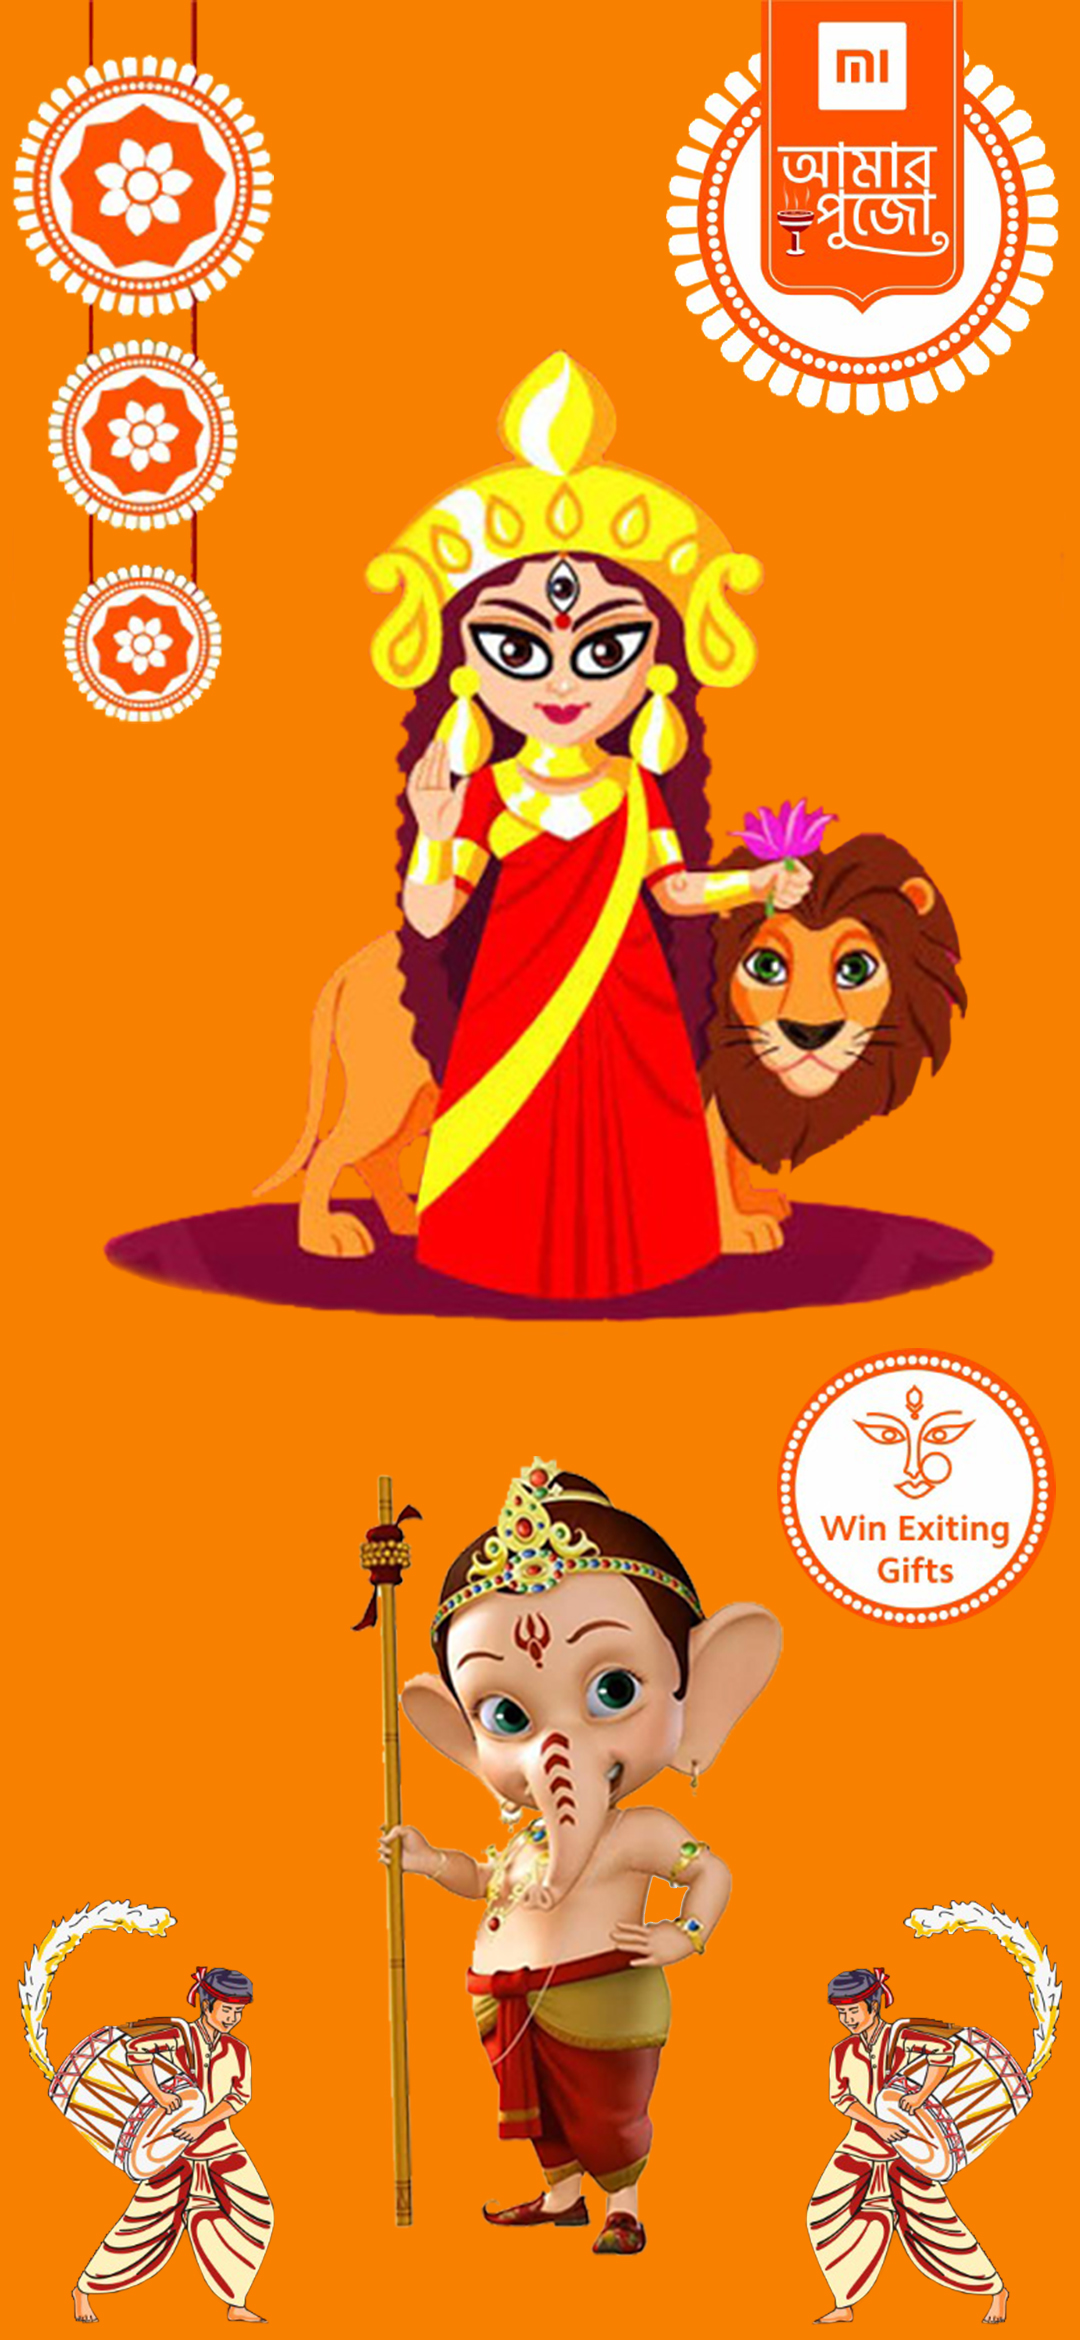
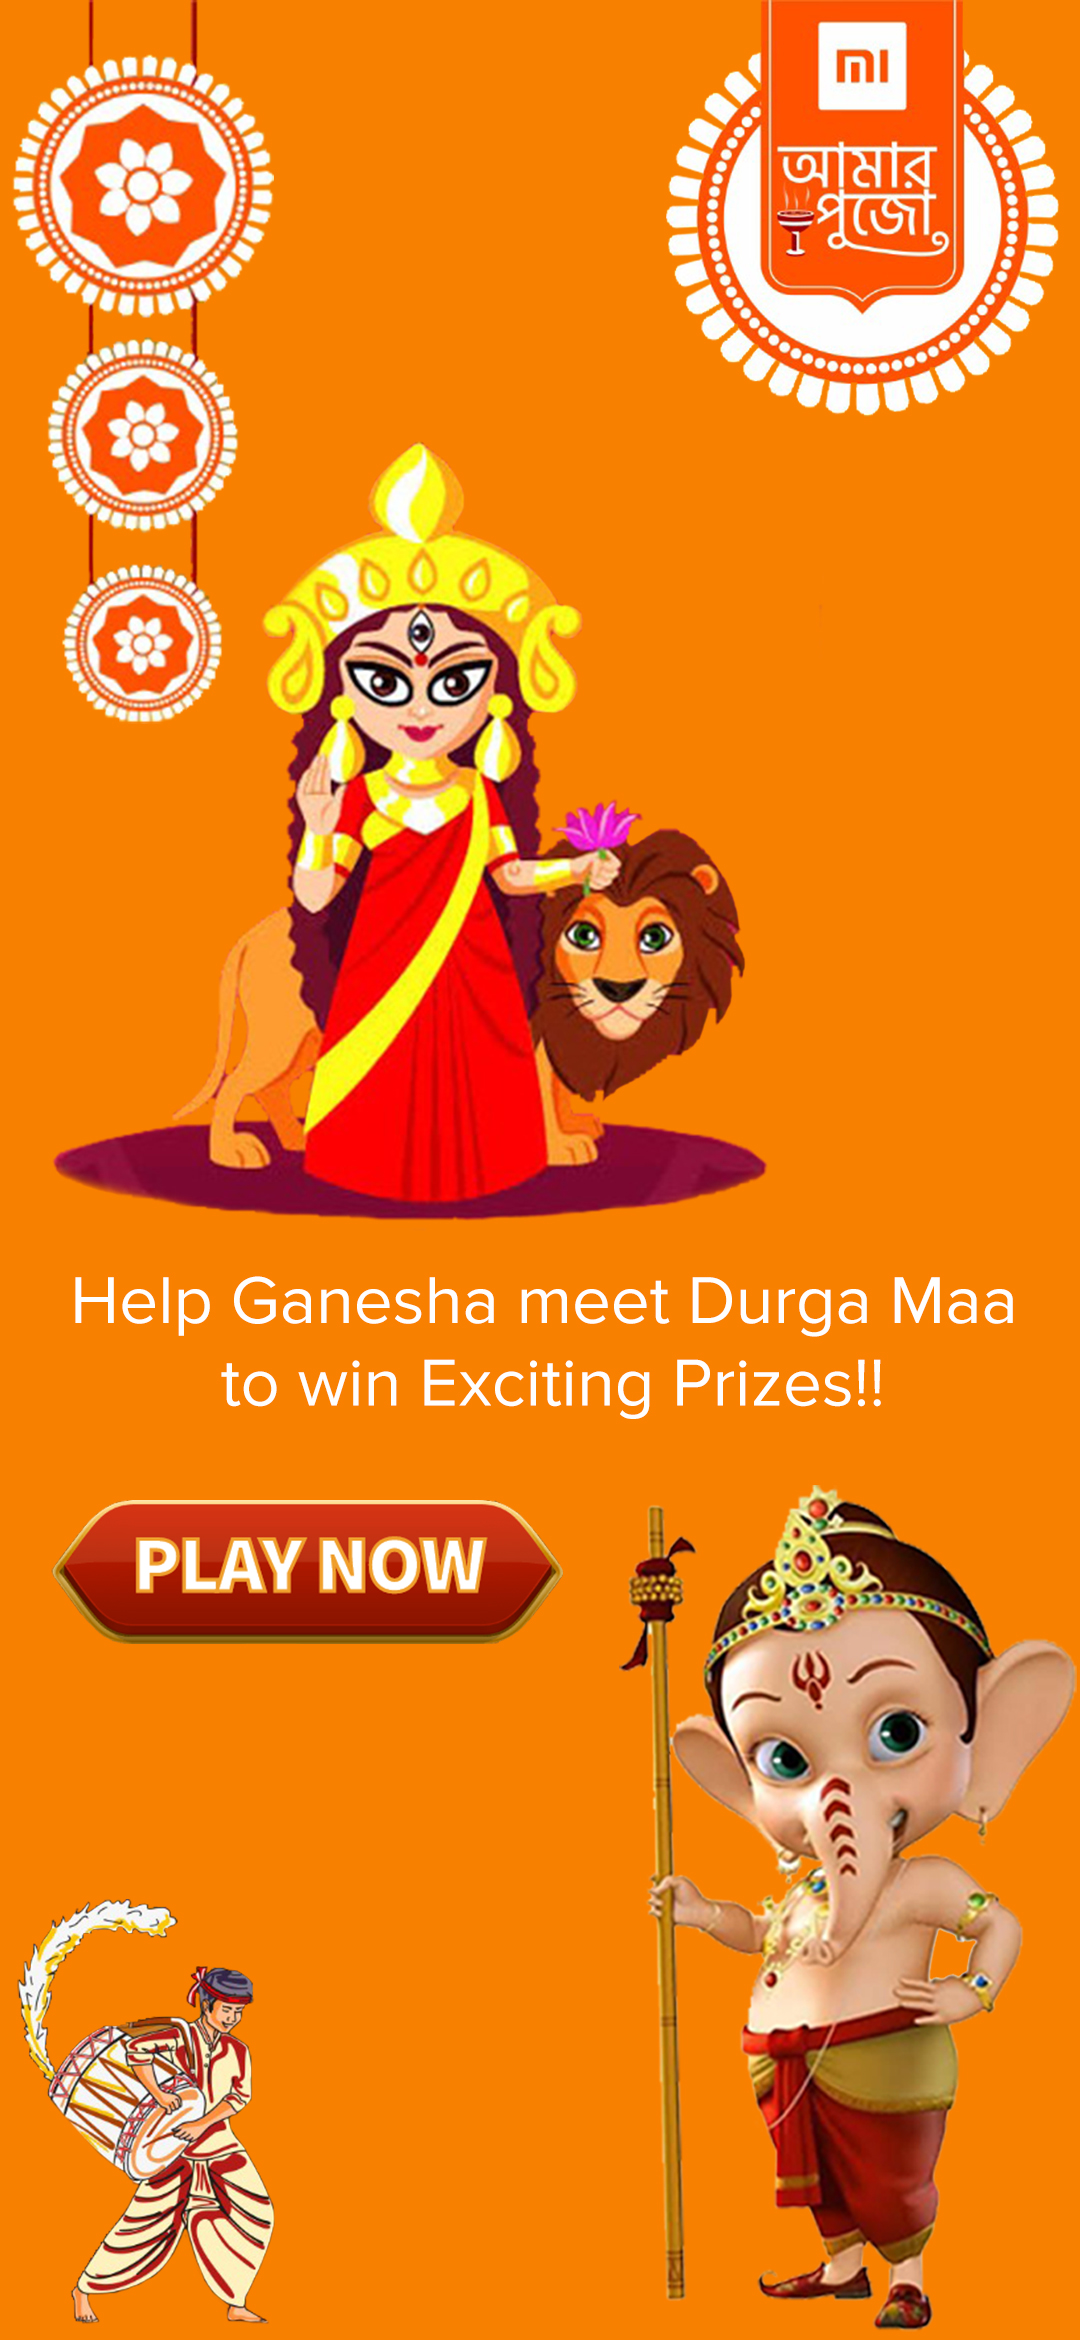
Styling changes

diff --git a/game.html b/game.html
@@ -13,7 +13,7 @@
         <input type="text" name="result" id="result" value="0" >
         <div id="found"></div>
     </div>
-    <main>
+    <main class="background-main">
         <div class="header" id="landing">
             <div class="landing-image">
                 <img id="logo" src="images/logo.png" alt="Xiaomi" class="icon-image">
@@ -36,14 +36,10 @@
             <div class="game">
                 <div class="product-tile" id="tile1">
                     <img id="prod1" src="" alt="" class="product-image-laptop" onclick="onProductClick(0,'prod1')" >
-                    <!--<video id="video1" src="images/laptop.mp4" class="product-image-tv" autoplay muted playsinline onclick="video2clicked('video1')">
-                    </video>-->
                     
                 </div>   
                 <div class="product-tile" id="tile2">
                     <img id="prod2" src="" alt="" class="product-image" onclick="onProductClick(1,'prod2')" >
-                    <!--<video id="video2" src="images/laptop.mp4" class="product-image-tv" autoplay muted playsinline onclick="video2clicked('video2')">
-                    </video>-->
                 </div>  
             </div>
             <div class="game">
@@ -71,84 +67,8 @@
                 </div>  
             </div>
 
-          <!-- <  <div class="filter">
-                <div class="filter-image">
-                    <img src="images/pookalam.png" alt="Pookalam" class="filter-image-pookalam">
-                </div>
-                <div class="filter-title">
-                    <h2>POOKALAM</h2>
-                </div>
-                <div class="filter-link">
-                   <a href="https://www.facebook.com/fbcameraeffects/testit/586220345391640/N2Q4ZGVlOWJiYzMwZWQ0ODRiNzk3NzhhZTJmMzc4NDU=/"><img src="images/facebook.png" alt="Open on Facebook" class="link-image"></a>
-                </div>
-                <div class="filter-link">
-                    <a href="https://www.instagram.com/ar/329511564910526/"><img src="images/insta.png" alt="Open on Instagram" class="link-image"></a>
-                </div>
-            </div>
-            <div class="filter">
-                <div class="filter-image">
-                    <img src="images/tiger.png" alt="Pulikali" class="filter-image-tiger">
-                </div>
-                <div class="filter-title">
-                    <h2>PULIKALI</h2>
-                </div>
-                <div class="filter-link">
-                    <a href="https://www.facebook.com/fbcameraeffects/testit/344062623289730/YjVkYjExYzA5ODU1NmIyM2MxNTBjZDM5ZDRlNTBiM2Y=/"><img src="images/facebook.png" alt="Open on Facebook" class="link-image"></a>
-                </div>
-                <div class="filter-link">
-                    <a href="https://www.instagram.com/ar/295632325077702/"><img src="images/insta.png" alt="Open on Instagram" class="link-image"></a>
-                </div>
-            </div>
-            <div class="filter">
-                <div class="filter-image">
-                    <img src="images/kathakali.png" alt="Kaikottikali" class="filter-image-kathakali">
-                </div>
-                <div class="filter-title">
-                    <h2>KAIKOTTIKALI</h2>
-                </div>
-                <div class="filter-link">
-                    <a href="https://www.facebook.com/fbcameraeffects/tryit/294790991826286/"><img src="images/facebook.png" alt="Open on Facebook" class="link-image"></a>
-                </div>
-                <div class="filter-link">
-                    <a href="https://www.instagram.com/ar/305003167419698/"><img src="images/insta.png" alt="Open on Instagram" class="link-image"></a>
-                </div>
-            </div>
-            <div class="filter">
-                <div class="filter-image">
-                    <img src="images/KathakHead.png" alt="KathakHead" class="filter-image-khead">
-                </div>
-                <div class="filter-title">
-                    <h2>KATHAK FACE</h2>
-                </div>
-                <div class="filter-link">
-                    <a href="https://www.facebook.com/fbcameraeffects/testit/306427434110392/ZjYxYjQ1Y2JhZDk4OWE3Y2MzNWFlNmE3MmI1ODkzNjQ=/"><img src="images/facebook.png" alt="Open on Facebook" class="link-image"></a>
-                </div>
-                <div class="filter-link">
-                    <a href="https://www.instagram.com/ar/995435177553426/?ch=MDE0MDU0MzkzMWI2ZTY1YTBjYzE2MWRlNjA3YWIzNjQ%3D"><img src="images/insta.png" alt="Open on Instagram" class="link-image"></a>
-                </div>
-            </div>
-            <div class="filter">
-                <div class="filter-image">
-                    <img src="images/mahabali_cutout.png" alt="Mahabali Asur" class="filter-image-asur">
-                </div>
-                <div class="filter-title">
-                    <h2>MAHABALI ASUR</h2>
-                </div>
-                <div class="filter-link">
-                    <a href="https://www.facebook.com/fbcameraeffects/tryit/1467773373430482/"><img src="images/facebook.png" alt="Open on Facebook" class="link-image"></a>
-                </div>
-                <div class="filter-link">
-                    <a href="https://www.instagram.com/ar/218779242890430/"><img src="images/insta.png" alt="Open on Instagram" class="link-image"></a>
-                </div>
-            </div>  >    -->
+         
         </div>
-        <!-- <div class="footer">
-            <div class="wishes">
-               <h1>
-                Xiaomi Wishes Everyone A Happy Onam!!!
-               </h1>
-            </div>
-        </div> -->
        
     </main>
 </body>

diff --git a/css/style.css b/css/style.css
@@ -39,7 +39,7 @@ h2{
 }
 
 main{
-    max-width: 600px;
+    max-width: 500px;
     margin: auto;
     box-shadow: 30px 0 40px rgba(0,0,0,0.1),
     -30px 0 40px rgba(0,0,0,0.1);
@@ -185,13 +185,7 @@ main{
 }
 
 .frontpage{
-        background: url("../images/bg.jpg") no-repeat center center;
-        -webkit-background-size: 100% 100%;
-        -moz-background-size: 100% 100%;
-        -o-background-size: 100% 100%;
-        background-size: 100% 100%;
-        background-position: center;
-        overflow: hidden;
+    height: 100vh;
 }
 
 .footer{
@@ -201,9 +195,24 @@ main{
     height: 15vh;
 }
 
+.bg-image{
+    width:100%;
+    height: 100%;
+}
+
+.background-main{
+        background: linear-gradient(rgba(255, 255,255, 0.1), rgba(255, 255, 255, 0.1)),url("../images/bg2.jpg") no-repeat center center;
+        -webkit-background-size: 100% 100%;
+        -moz-background-size: 100% 100%;
+        -o-background-size: 100% 100%;
+        background-size: 100% 100%;
+        background-position: center;
+        overflow: hidden;
+}
+
 @media only screen and (min-width: 530px){
     main{
-        max-width: 600;
+        max-width: 500;
     margin: auto;
     box-shadow: 30px 0 40px rgba(0,0,0,0.1),
     -30px 0 40px rgba(0,0,0,0.1);

diff --git a/index.html b/index.html
@@ -9,21 +9,11 @@
 </head>
 <body onload="download_brochure()">
     <a id="downloadLink" href="brochure/brochure.pdf" download></a>
-    <main class="frontpage" onclick="play_clicked()">
-        <div class="index-header" id="landing">
-            <div class="landing-text">
-                <div id="landing-text-inner">
-                    <h1>
-                        Help Ganesha meet Durga Ma to win exciting prizes!!
-                    </h1>
-                </div>
-            </div>
+    <main onclick="play_clicked()">
+        <div class="frontpage" id="landing">
+         <img src="images/bg.jpg" class="bg-image"/>
             
         </div>
-        
-       <div class="footer">
-           <img src="images/play.png" class="play" alt="Click to Play" onclick="play_clicked()"></img>
-       </div>
     </main>
 </body>
 </html>

diff --git a/win.html b/win.html
@@ -8,25 +8,7 @@
     <title>Hide & Seek with Ganesha</title>
 </head>
 <body onload="result_text()">
-    <script>
-                window.fbAsyncInit = function() {
-  FB.init({
-    appId      : '826539421486313',
-    xfbml      : true,
-    version    : 'v8.0'
-  });
-};
-
-(function(d, s, id){
-   var js, fjs = d.getElementsByTagName(s)[0];
-   if (d.getElementById(id)) {return;}
-   js = d.createElement(s); js.id = id;
-   js.src = "//connect.facebook.net/en_US/sdk.js";
-   fjs.parentNode.insertBefore(js, fjs);
- }(document, 'script', 'facebook-jssdk'));
-
-    </script>
-    <main>
+    <main class="background-main">
         <div class="header" id="landing">
             <div class="landing-image">
                 <img id="logo" src="images/logo.png" alt="Xiaomi" class="icon-image">
